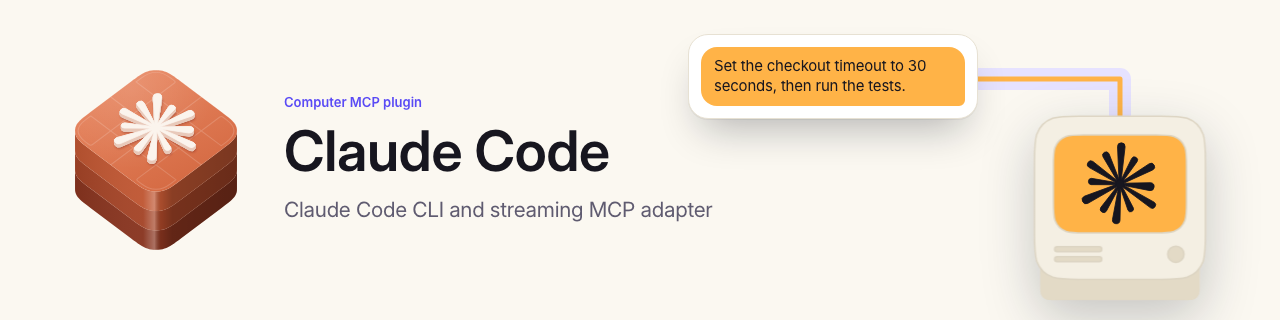
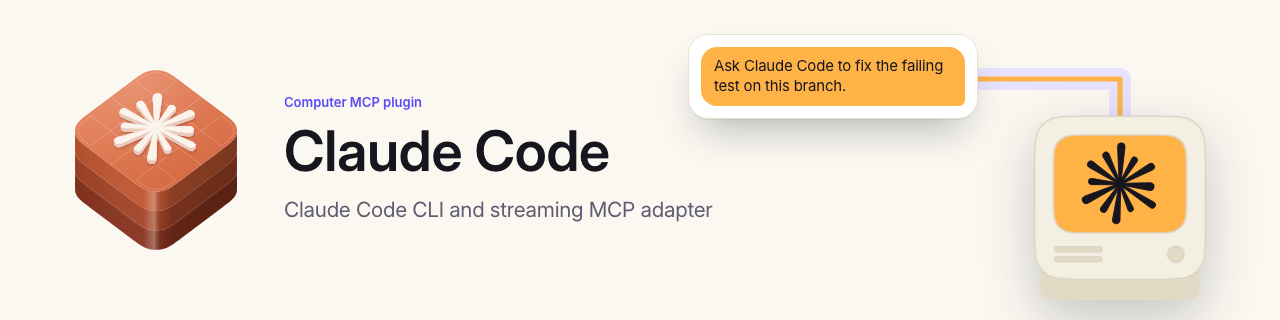
feat: give each member's header a request it serves
Plugins and Apple CLI show a request their own product handles. The Homebrew tap shows its install commands in the code block component and, on the computer's screen, the App and Apple CLI it installs.

Changed region(s): [[0.5625, 0.1875, 0.75, 0.2188], [0.5625, 0.25, 0.7188, 0.2812]]

diff --git a/DESIGN.md b/DESIGN.md
@@ -409,7 +409,8 @@ layers with continuous corners; component icons take the framework generator's s
   glass tiles in the colors of Notes, Calendar and Mail, the fourth a dark terminal with a prompt.
 - **Screen glyph:** in a member's compositions the computer's screen shows its icon's glyph flat in
   ink, with inlaid details in the screen's amber: a framework glyph's surface parts, and Apple
-  CLI's prompt. Icons never carry the chat card or the link.
+  CLI's prompt. The Homebrew tap's screen shows the icons of the App and Apple CLI it installs.
+  Icons never carry the chat card or the link.
 - **Never:** SF Symbols or SF Pro inside brand artwork. The swift-sdk fork keeps its upstream
   identity.
 
@@ -1197,7 +1198,10 @@ face units.
 - **Primary button:** violet fill, white label in the interface sans, 12px radius.
 - **Secondary button:** raised surface with a 1px line border.
 - **Chat card:** raised surface, 20px radius, a title row naming the chat, and the request as an
-  amber bubble with ink text.
+  amber bubble with ink text. Each member's request is one it serves, from `Brand/config.json`.
+- **Command card:** the code block carrying real commands behind amber prompts, with a 1px line
+  border in dark mode; it takes the chat card's place for the Homebrew tap, which people reach
+  from a terminal.
 - **Computer:** the App icon's machine drawn flat — ivory case with a hairline edge, recessed chin,
   amber screen carrying the member glyph or, for the App, the command and its result. Capability
   chips beside the composition name Files, Shell, CLI, MCP, Skills and Computer Use.
@@ -1211,7 +1215,8 @@ face units.
 
 - Do keep amber for the active path and violet for actions and links; never set amber text on a
   light surface.
-- Do show both the chat and the computer whenever the link appears.
+- Do show both the request — a chat, or a command card — and the computer whenever the link
+  appears.
 - Do draw the computer from the App icon's layers; never redraw or restyle it per surface.
 - Do render every image text with the bundled OFL fonts, in both light and dark.
 - Don't use gradients on cards or the computer, or rotate them.
